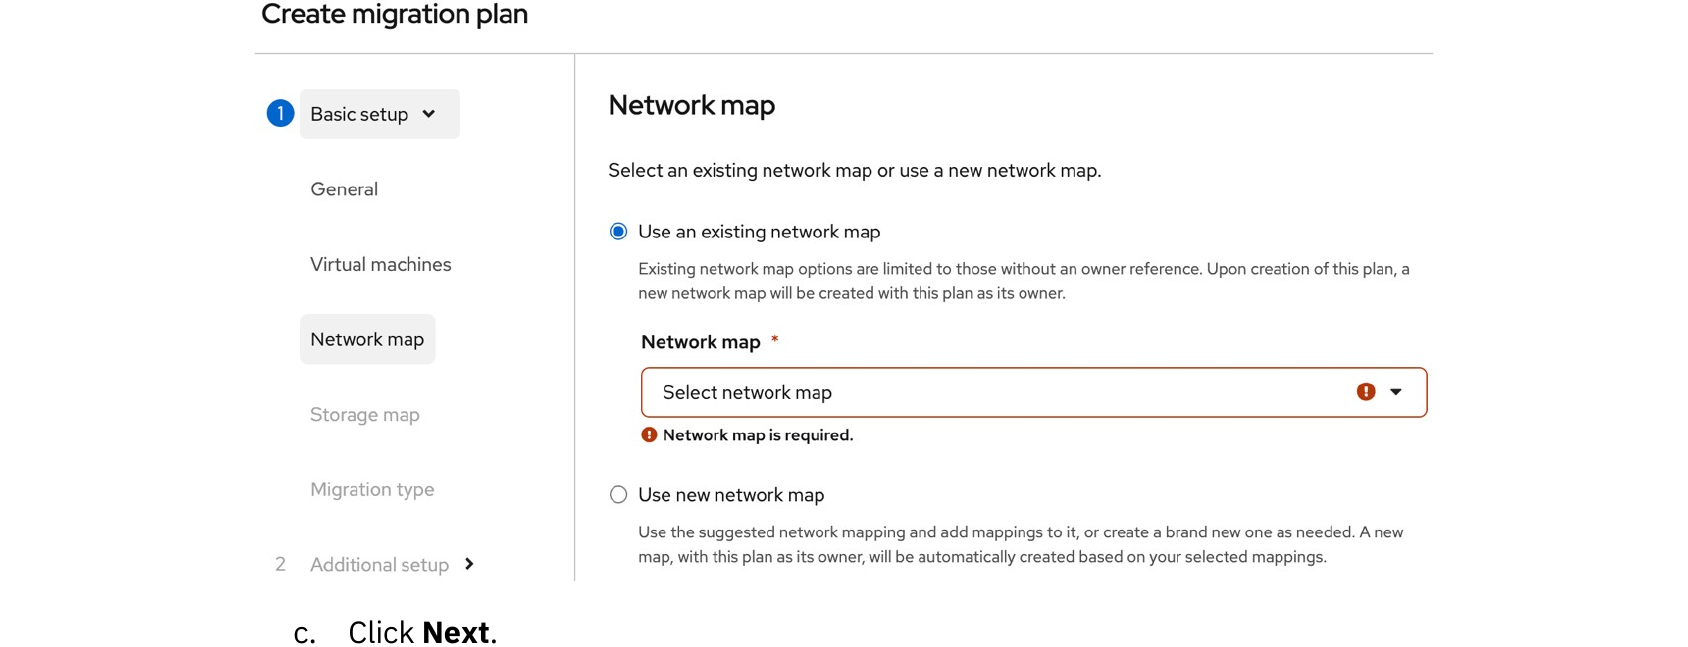
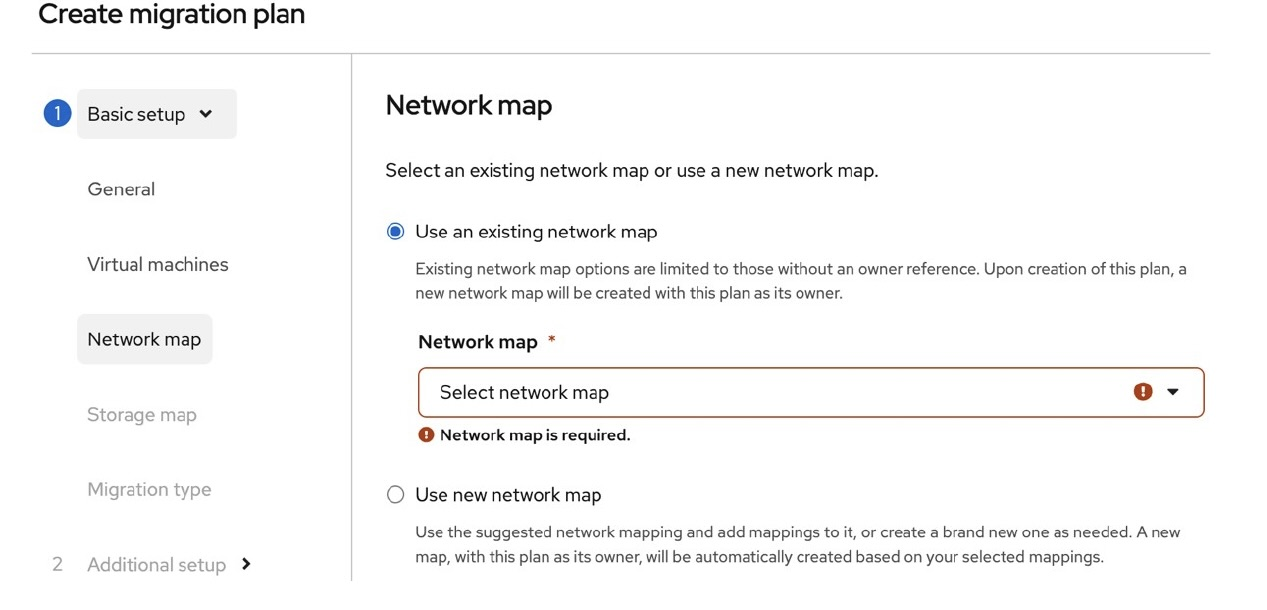
fixed repeated instructions in screenshots

diff --git a/docs/demo-layer2-udn.md b/docs/demo-layer2-udn.md
@@ -67,8 +67,6 @@ The diagram below illustrates the shared Secondary Layer 2 CUDN topology, showin
 
 **d.** Click the blue **OpenShift web console** button (upper right of the cluster detail page).
 
-![OpenShift web console button](/img/lab/image18.png)
-
 > The OpenShift console opens in a new tab, already authenticated.
 
 ---
